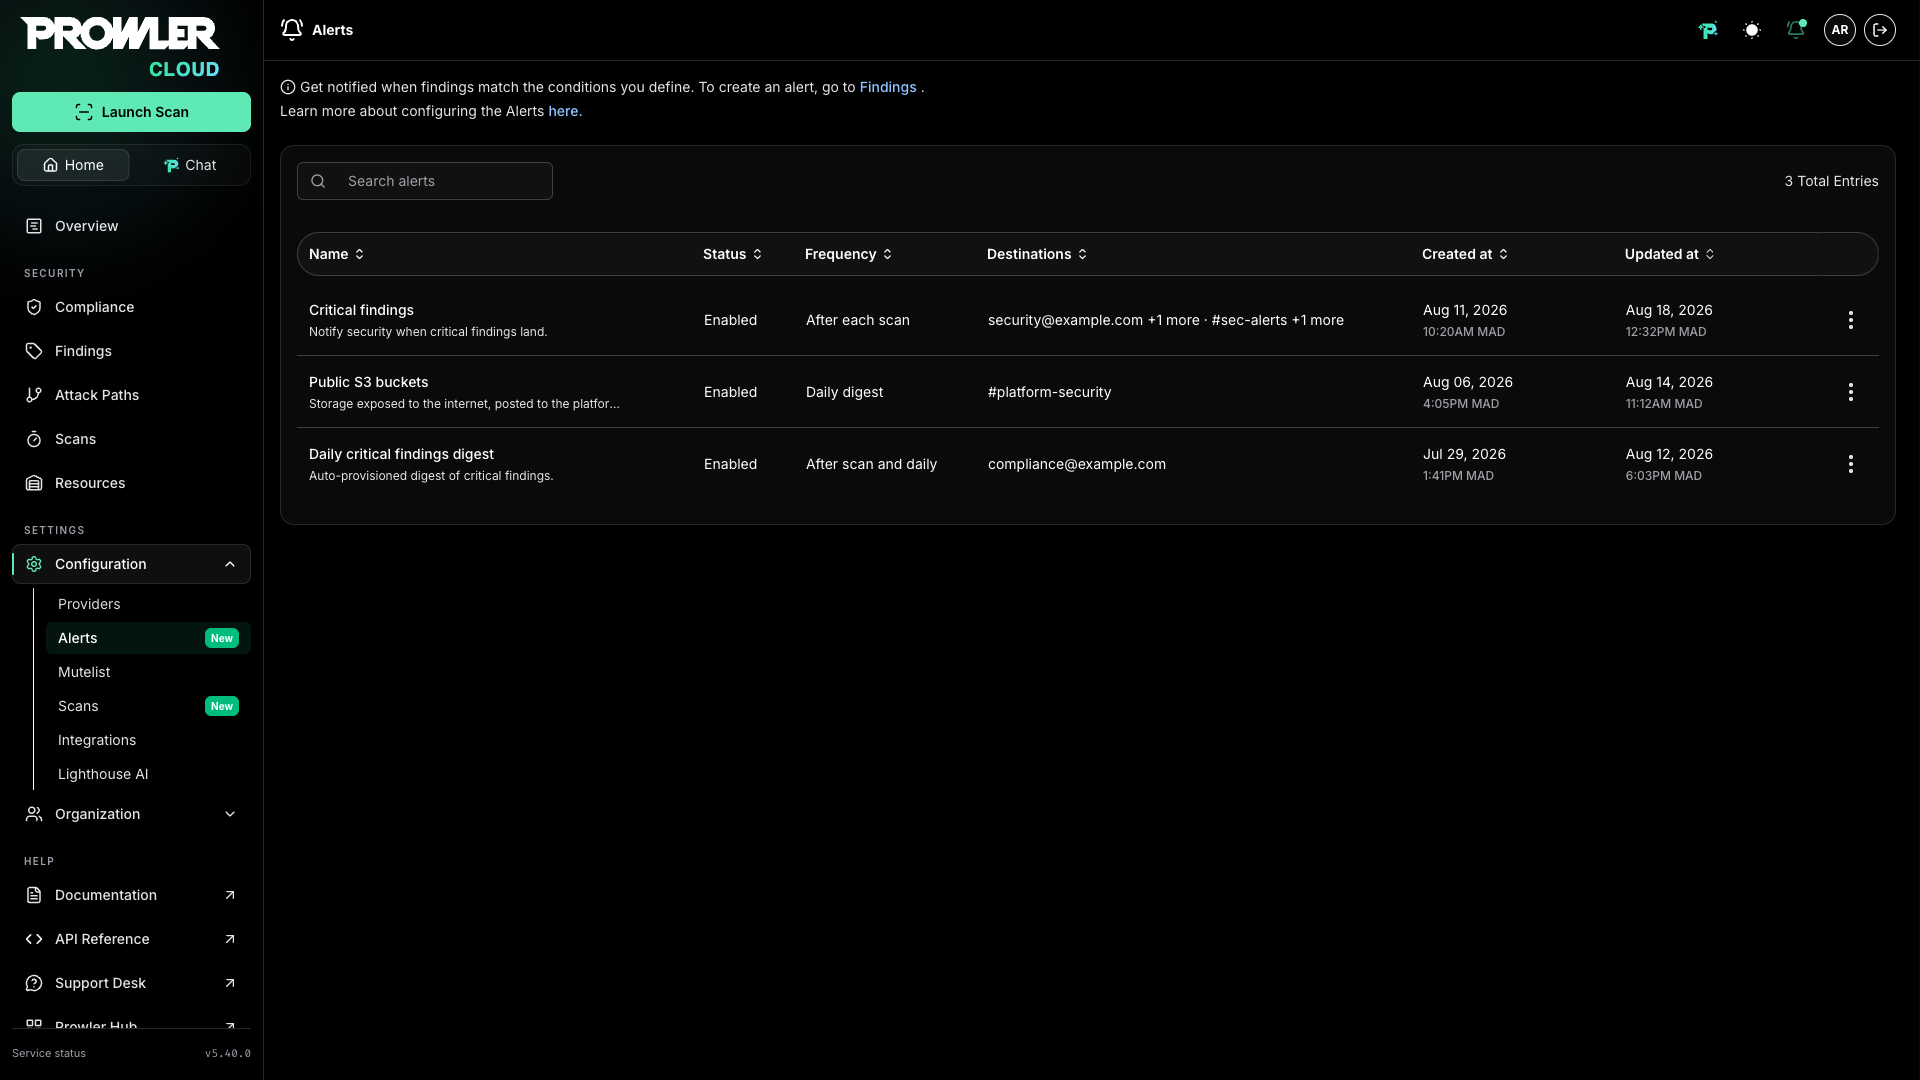
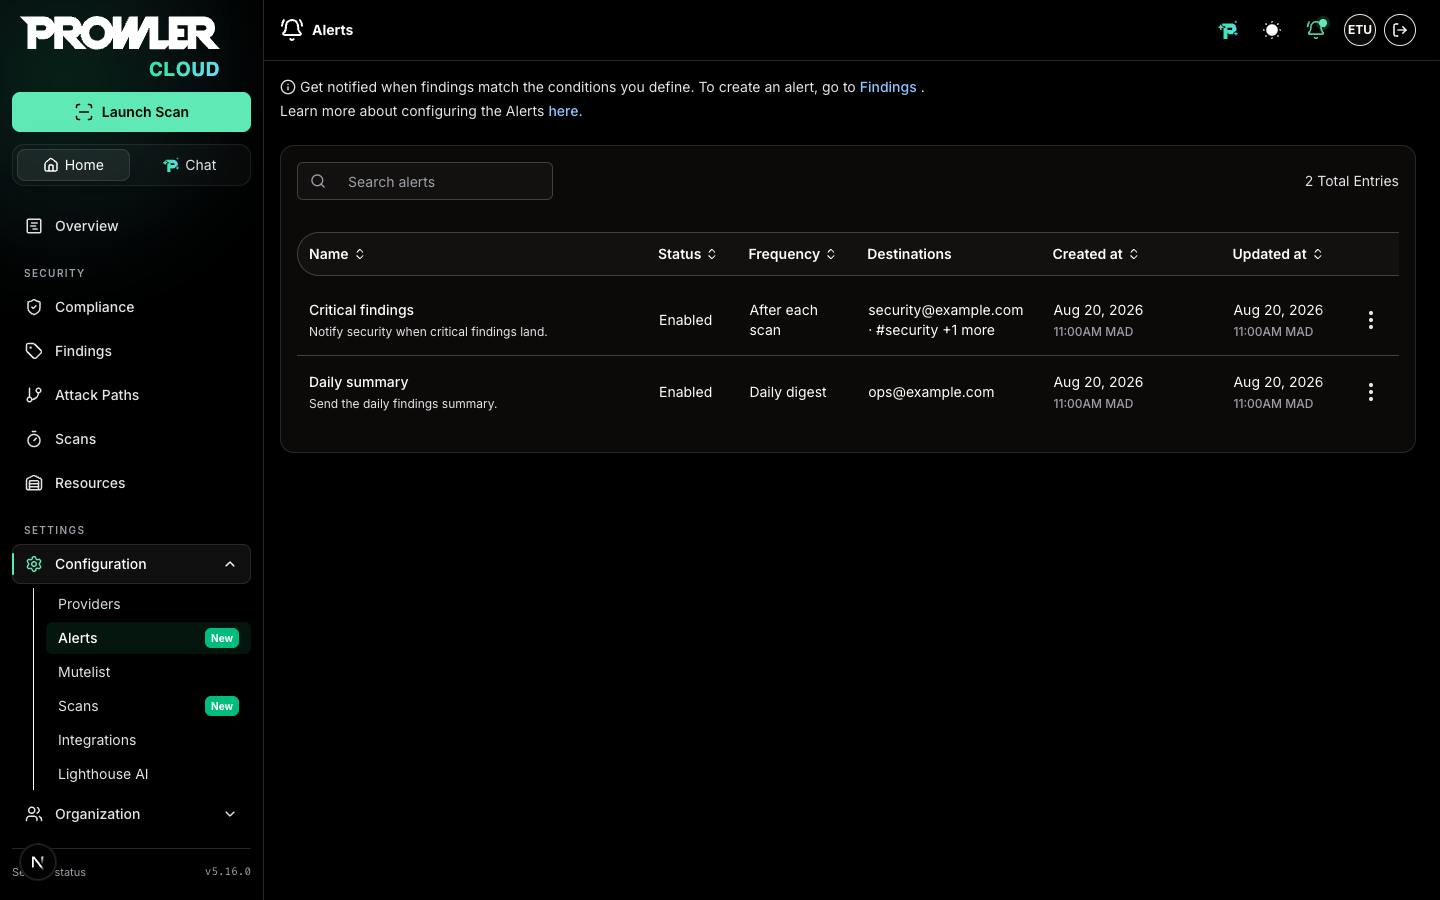
fix: address alerts review feedback
- Remove obsolete duplicate destinations tests\n- Refresh the alerts documentation screenshot

diff --git a/ui/app/(prowler)/alerts/alerts-page.integration.test.tsx b/ui/app/(prowler)/alerts/alerts-page.integration.test.tsx
@@ -472,57 +472,3 @@ describe("the alerts list shows destinations", () => {
     );
   });
 });
-
-describe("the alerts list shows destinations", () => {
-  it("shows a rule's channels by name alongside its emails, without opening it", async () => {
-    const harness = new AlertsPageHarness(
-      alertsFixture({
-        rules: [
-          alertRuleFixture({
-            slackChannels: [
-              { ...ALERTS_PUBLIC_CHANNEL },
-              { ...ALERTS_PRIVATE_CHANNEL },
-            ],
-          }),
-        ],
-      }),
-    );
-    await harness.mount();
-
-    expect(await harness.ruleDestinationsSummary(RULE_NAME)).toBe(
-      `security@example.com · #${ALERTS_PUBLIC_CHANNEL.name} +1 more`,
-    );
-  });
-
-  it("reads correctly for emails-only, channels-only and empty rules", async () => {
-    const harness = new AlertsPageHarness(
-      alertsFixture({
-        rules: [
-          alertRuleFixture({ id: "rule-emails", name: "Emails only" }),
-          alertRuleFixture({
-            id: "rule-channels",
-            name: "Channels only",
-            recipientEmails: [],
-            slackChannels: [{ ...ALERTS_PRIVATE_CHANNEL }],
-          }),
-          alertRuleFixture({
-            id: "rule-none",
-            name: "No destinations yet",
-            recipientEmails: [],
-          }),
-        ],
-      }),
-    );
-    await harness.mount();
-
-    expect(await harness.ruleDestinationsSummary("Emails only")).toBe(
-      "security@example.com",
-    );
-    expect(await harness.ruleDestinationsSummary("Channels only")).toBe(
-      `#${ALERTS_PRIVATE_CHANNEL.name}`,
-    );
-    expect(await harness.ruleDestinationsSummary("No destinations yet")).toBe(
-      "No destinations",
-    );
-  });
-});
